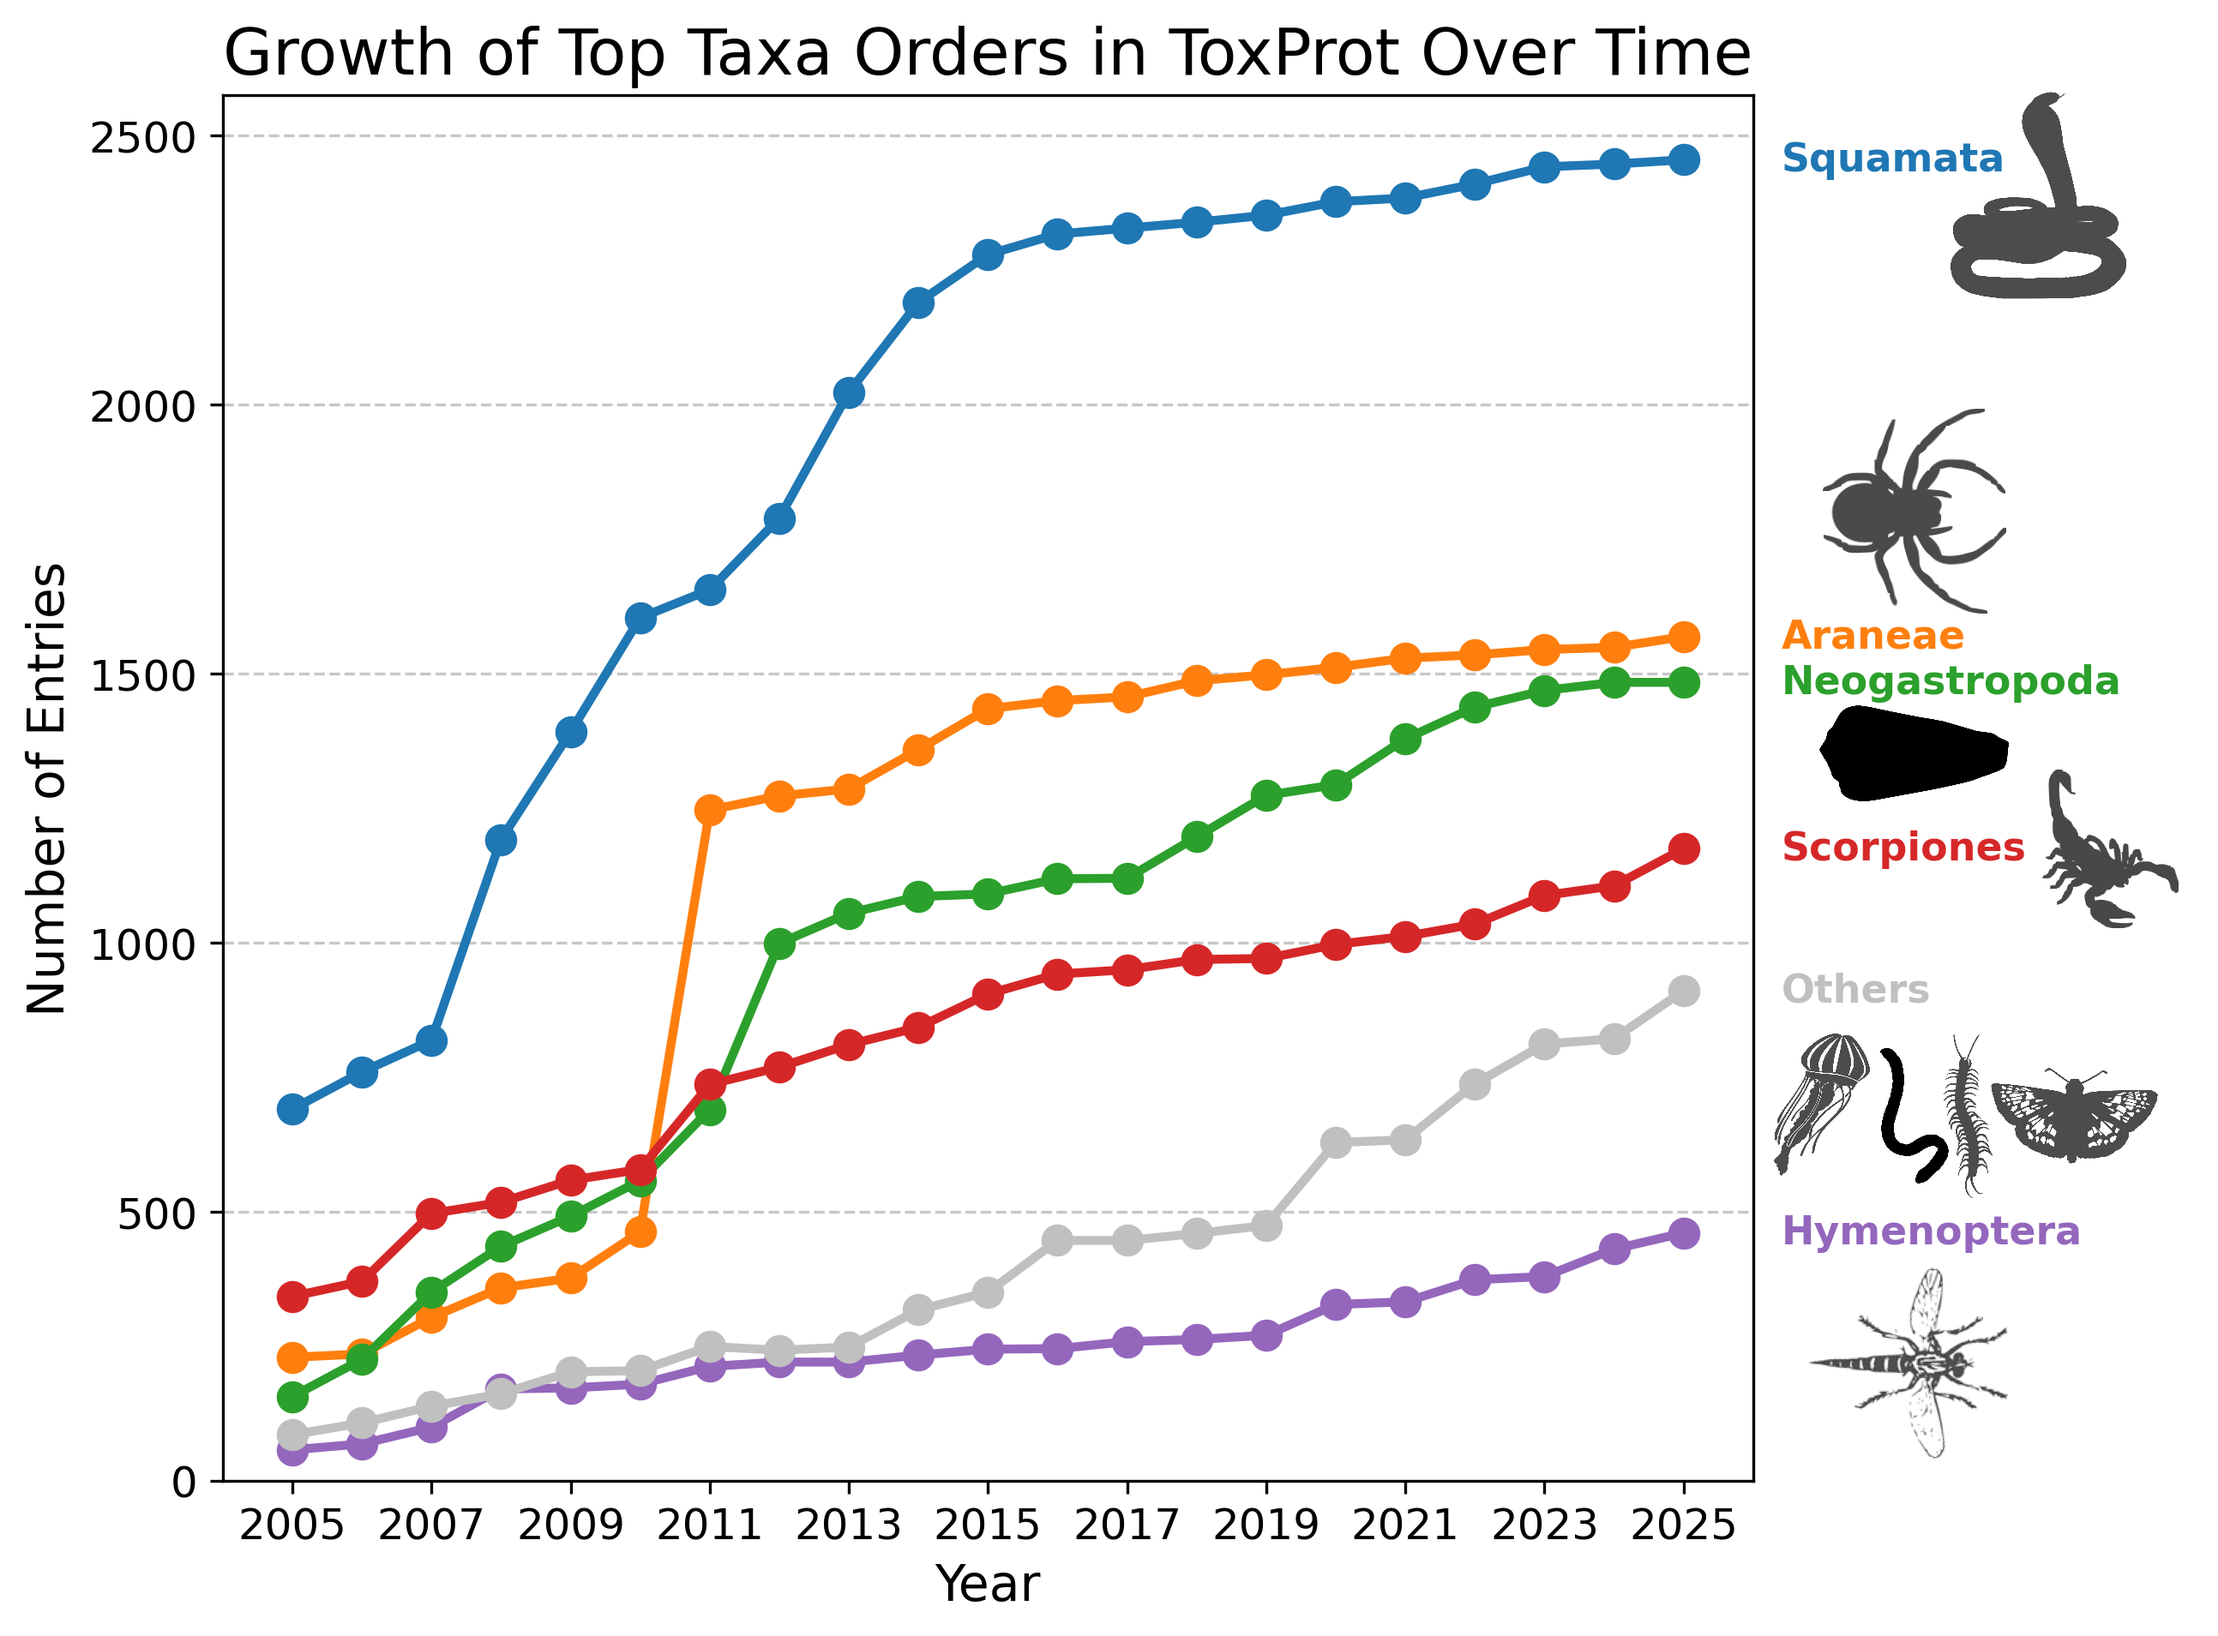
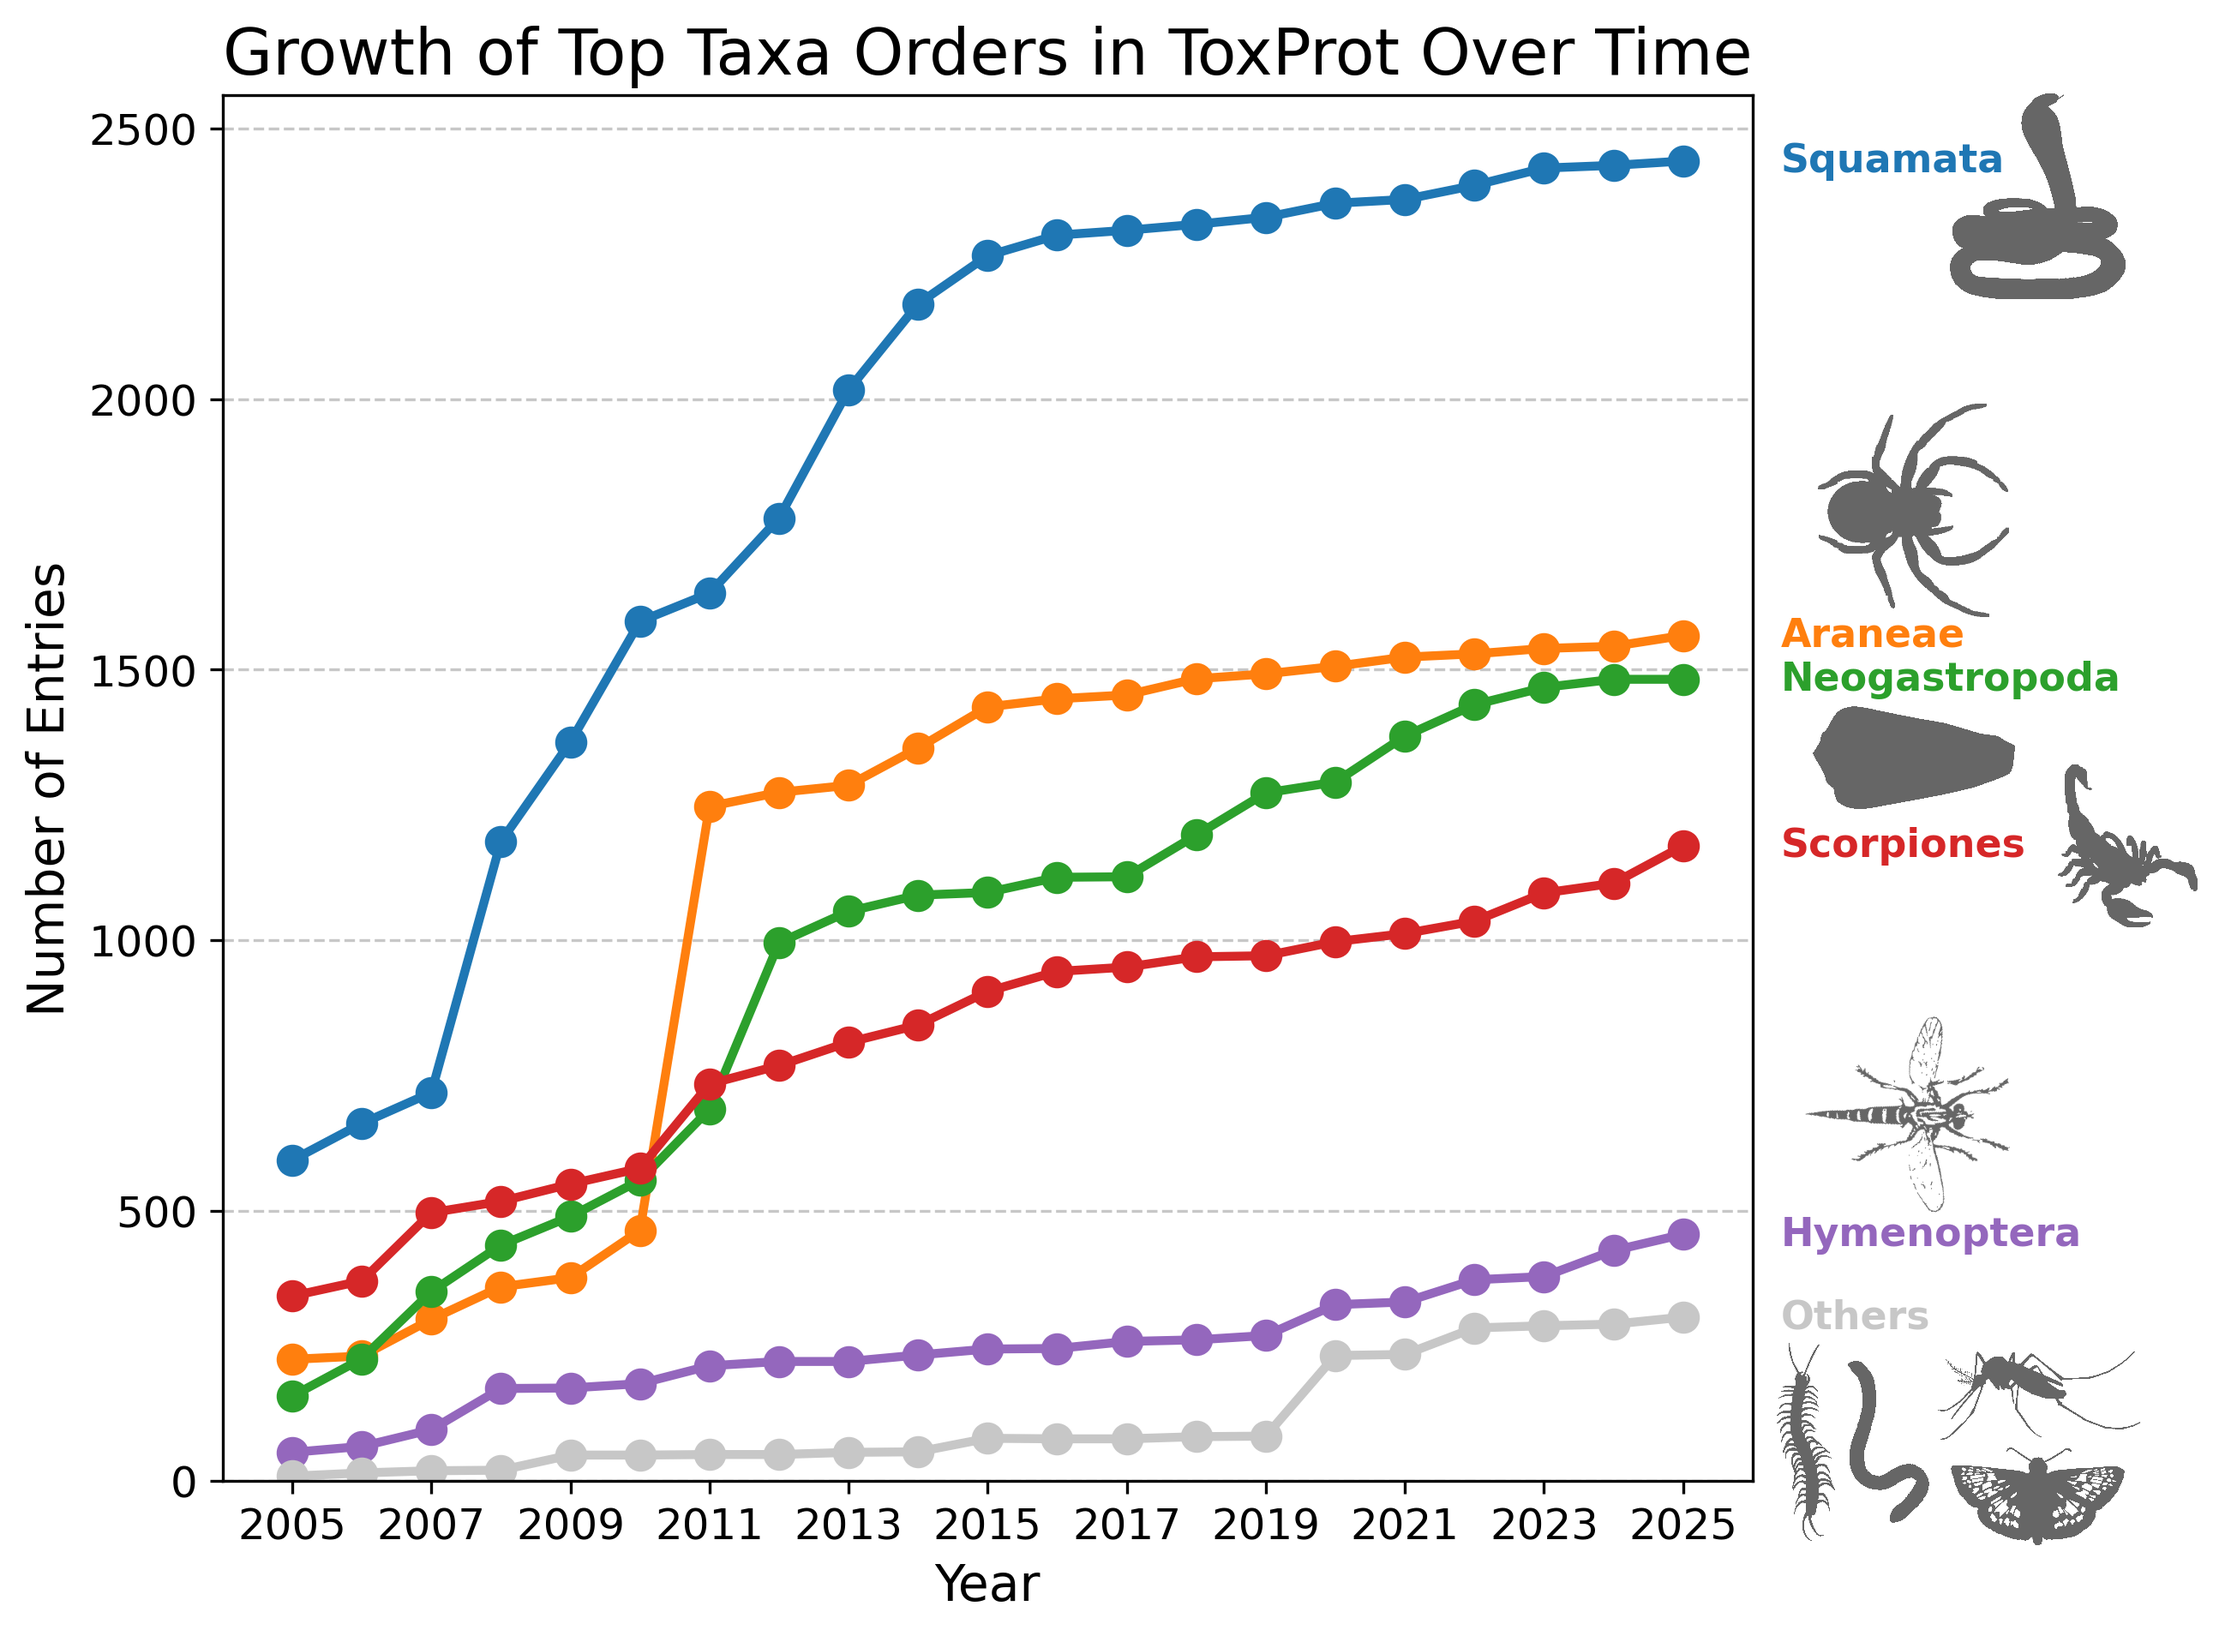
fix(assets): normalize silhouette colors to uniform grey
Convert SVG silhouettes to uniform grey (#666666) with binary alpha
to ensure consistent appearance across all taxa icons.

diff --git a/src/analysis/analyze_taxa.py b/src/analysis/analyze_taxa.py
@@ -26,7 +26,7 @@ SILHOUETTE_MAP = {
 }
 
 # Silhouettes for "Others" category
-OTHERS_SILHOUETTES = ["Medusa2", "Annelida", "Scolopendra", "Moth"]
+OTHERS_SILHOUETTES = ["Aedes", "Annelida", "Scolopendra", "Moth"]
 
 # Common names for newcomer taxa orders
 ORDER_COMMON_NAMES = {
@@ -45,19 +45,16 @@ ORDER_COMMON_NAMES = {
 }
 
 
-def load_silhouette(name: str, color: str = "black") -> Image.Image | None:
+def load_silhouette(name: str, color: str = "grey") -> Image.Image | None:
     """Load a silhouette PNG image by name."""
-    candidates = [
-        SILHOUETTE_DIR / f"{name}.png",
-        SILHOUETTE_DIR / f"{name}_{color}.png",
-    ]
-    for path in candidates:
-        if path.exists():
-            return Image.open(path)
+    # Prefer color-suffixed version (e.g., Spider_grey.png) over base file
+    path = SILHOUETTE_DIR / f"{name}_{color}.png"
+    if path.exists():
+        return Image.open(path)
     return None
 
 
-def get_silhouette(order: str, color: str = "black") -> Image.Image | None:
+def get_silhouette(order: str, color: str = "grey") -> Image.Image | None:
     """Get silhouette image for a taxa order."""
     if order not in SILHOUETTE_MAP:
         return None
@@ -113,17 +110,16 @@ def plot_top_taxa_trend(
     # x_offset/y_offset: position in points, zoom: scale, rotation: degrees
     # =================================================================
     silhouette_config = {
-        "Squamata": {"x_offset": 80, "y_offset": -10, "zoom": 0.04, "rotation": 0},
-        "Araneae": {"x_offset": 45, "y_offset": 35, "zoom": 0.25, "rotation": -90},
-        "Neogastropoda": {"x_offset": 45, "y_offset": -20, "zoom": 0.045, "rotation": 90},
-        "Scorpiones": {"x_offset": 100, "y_offset": 0, "zoom": 0.175, "rotation": 0},
-        # "Hymenoptera": {"x_offset": 45, "y_offset": -35, "zoom": 0.35, "rotation": -15},
-        "Hymenoptera": {"x_offset": 45, "y_offset": 35, "zoom": 0.35, "rotation": -15},
+        "Squamata": {"x_offset": 80, "y_offset": -10, "zoom": 0.02, "rotation": 0},
+        "Araneae": {"x_offset": 45, "y_offset": 35, "zoom": 0.13, "rotation": -90},
+        "Neogastropoda": {"x_offset": 45, "y_offset": -22, "zoom": 0.018, "rotation": 90},
+        "Scorpiones": {"x_offset": 105, "y_offset": 0, "zoom": 0.09, "rotation": 0},
+        "Hymenoptera": {"x_offset": 45, "y_offset": 35, "zoom": 0.18, "rotation": -15},
         # Others silhouettes
-        "Medusa2": {"x_offset": 15, "y_offset": -35, "zoom": 0.030, "rotation": 0},
-        "Annelida": {"x_offset": 45, "y_offset": -35, "zoom": 0.020, "rotation": 0},
-        "Scolopendra": {"x_offset": 60, "y_offset": -35, "zoom": 0.030, "rotation": 0},
-        "Moth": {"x_offset": 90, "y_offset": -35, "zoom": 0.025, "rotation": 0},
+        "Scolopendra": {"x_offset": 15, "y_offset": -35, "zoom": 0.018, "rotation": 0},
+        "Annelida": {"x_offset": 38, "y_offset": -35, "zoom": 0.009, "rotation": 0},
+        "Aedes": {"x_offset": 80, "y_offset": -22, "zoom": 0.035, "rotation": 0},
+        "Moth": {"x_offset": 80, "y_offset": -50, "zoom": 0.013, "rotation": 2},
     }
 
     for i, order in enumerate(plot_df.columns):
@@ -150,7 +146,7 @@ def plot_top_taxa_trend(
         )
 
         # Add silhouette
-        silhouette = get_silhouette(order, "black")
+        silhouette = get_silhouette(order)
         if silhouette is not None:
             rotation = config.get("rotation", 0)
             if rotation != 0:
@@ -171,7 +167,7 @@ def plot_top_taxa_trend(
             # Display multiple silhouettes for "Others"
             for name in OTHERS_SILHOUETTES:
                 cfg = silhouette_config.get(name, {"x_offset": 45, "y_offset": -30, "zoom": 0.025})
-                other_img = load_silhouette(name, "black")
+                other_img = load_silhouette(name)
                 if other_img is not None:
                     rotation = cfg.get("rotation", 0)
                     if rotation != 0:

diff --git a/scripts/convert_silhouettes.py b/scripts/convert_silhouettes.py
@@ -1,0 +1,88 @@
+#!/usr/bin/env python3
+"""Convert SVG silhouettes to uniform grey PNGs."""
+
+from io import BytesIO
+from pathlib import Path
+
+import cairosvg
+from PIL import Image
+
+# Configuration
+SVG_DIR = Path("data/raw/PhyloPic/svg")
+PNG_DIR = Path("data/raw/PhyloPic/png")
+
+# Single uniform grey color for all silhouettes
+GREY_VALUE = 102  # #666666
+
+
+def svg_to_pil(svg_path: Path, scale: float = 2.0) -> Image.Image:
+    """Convert SVG to PIL Image."""
+    png_data = cairosvg.svg2png(url=str(svg_path), scale=scale)
+    return Image.open(BytesIO(png_data)).convert("RGBA")
+
+
+def convert_to_grey(img: Image.Image, alpha_threshold: int = 128) -> Image.Image:
+    """Convert a silhouette image to uniform grey with binary alpha.
+
+    Replaces all pixels above alpha threshold with fully opaque grey.
+    Pixels below threshold become fully transparent.
+    """
+    img = img.copy()
+    pixels = img.load()
+    width, height = img.size
+
+    for y in range(height):
+        for x in range(width):
+            *_, a = pixels[x, y]
+            if a >= alpha_threshold:
+                pixels[x, y] = (GREY_VALUE, GREY_VALUE, GREY_VALUE, 255)
+            else:
+                pixels[x, y] = (0, 0, 0, 0)
+
+    return img
+
+
+def main():
+    """Convert SVG silhouettes to grey PNGs."""
+    # Create output directory if needed
+    PNG_DIR.mkdir(parents=True, exist_ok=True)
+
+    # Special cases: use base files (Spider.svg, Scorpion.svg) instead of _black versions
+    special_cases = {"Spider", "Scorpion"}
+
+    # Find all *_black.svg files, excluding special cases
+    svg_files = [
+        f
+        for f in sorted(SVG_DIR.glob("*_black.svg"))
+        if f.stem.replace("_black", "") not in special_cases
+    ]
+
+    # Add special case files (without _black suffix)
+    for name in special_cases:
+        special_path = SVG_DIR / f"{name}.svg"
+        if special_path.exists():
+            svg_files.append(special_path)
+
+    if not svg_files:
+        print(f"No SVG files found in {SVG_DIR}")
+        return
+
+    print(f"Converting {len(svg_files)} SVG files to grey PNGs...")
+
+    for svg_path in svg_files:
+        # Generate output name: Cobra_black.svg -> Cobra_grey.png
+        base_name = svg_path.stem.replace("_black", "")
+        output_path = PNG_DIR / f"{base_name}_grey.png"
+
+        print(f"  {svg_path.name} -> {output_path.name}")
+
+        # Convert SVG to PIL Image, then to grey
+        img = svg_to_pil(svg_path)
+        grey_img = convert_to_grey(img)
+        grey_img.save(output_path, "PNG")
+
+    print(f"\nDone! Created {len(svg_files)} grey PNG files in {PNG_DIR}")
+
+
+if __name__ == "__main__":
+    main()
